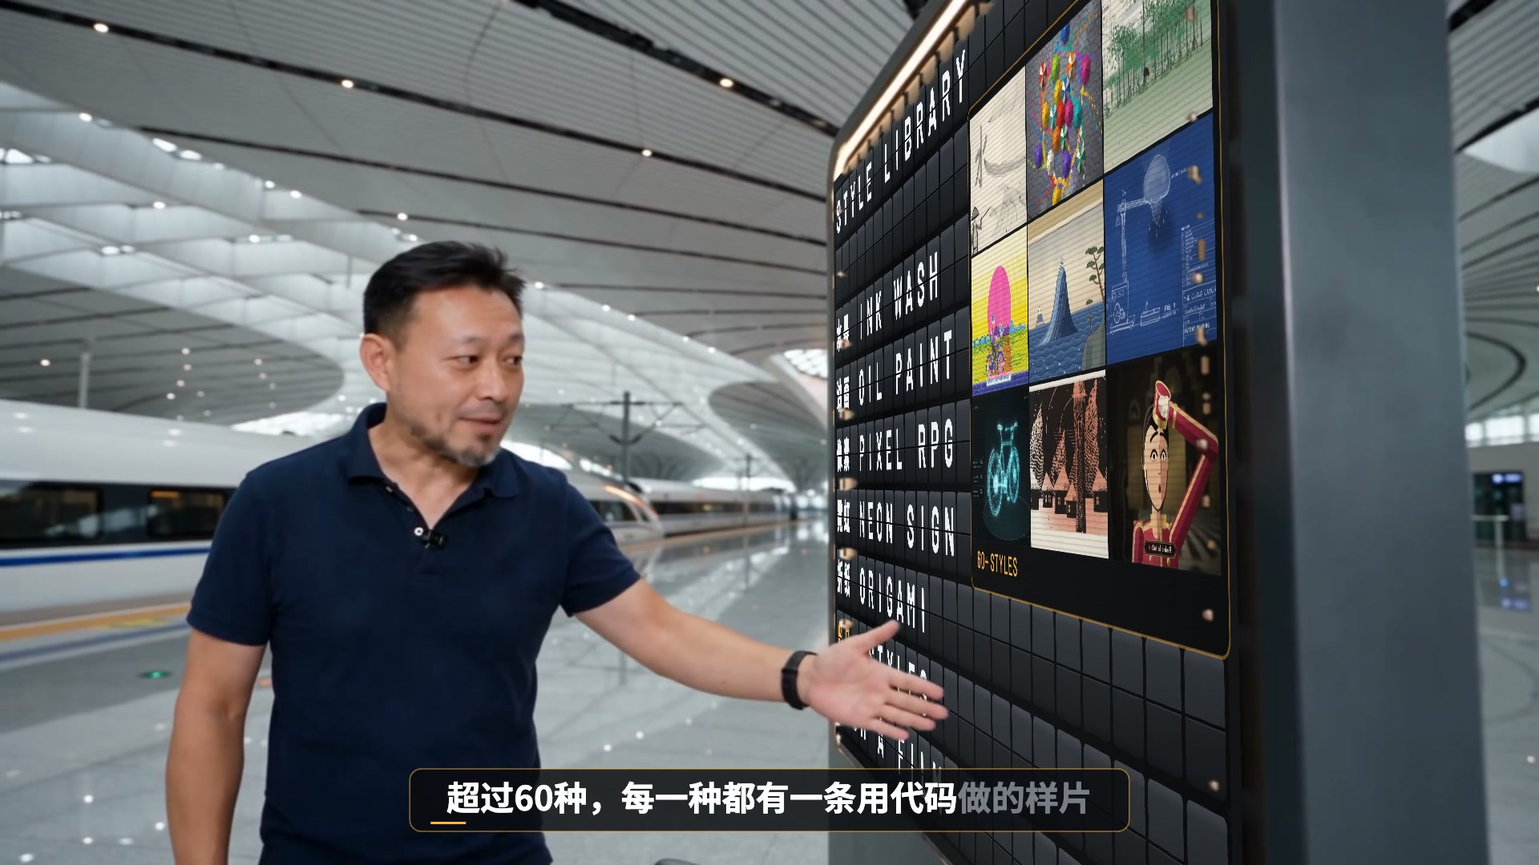
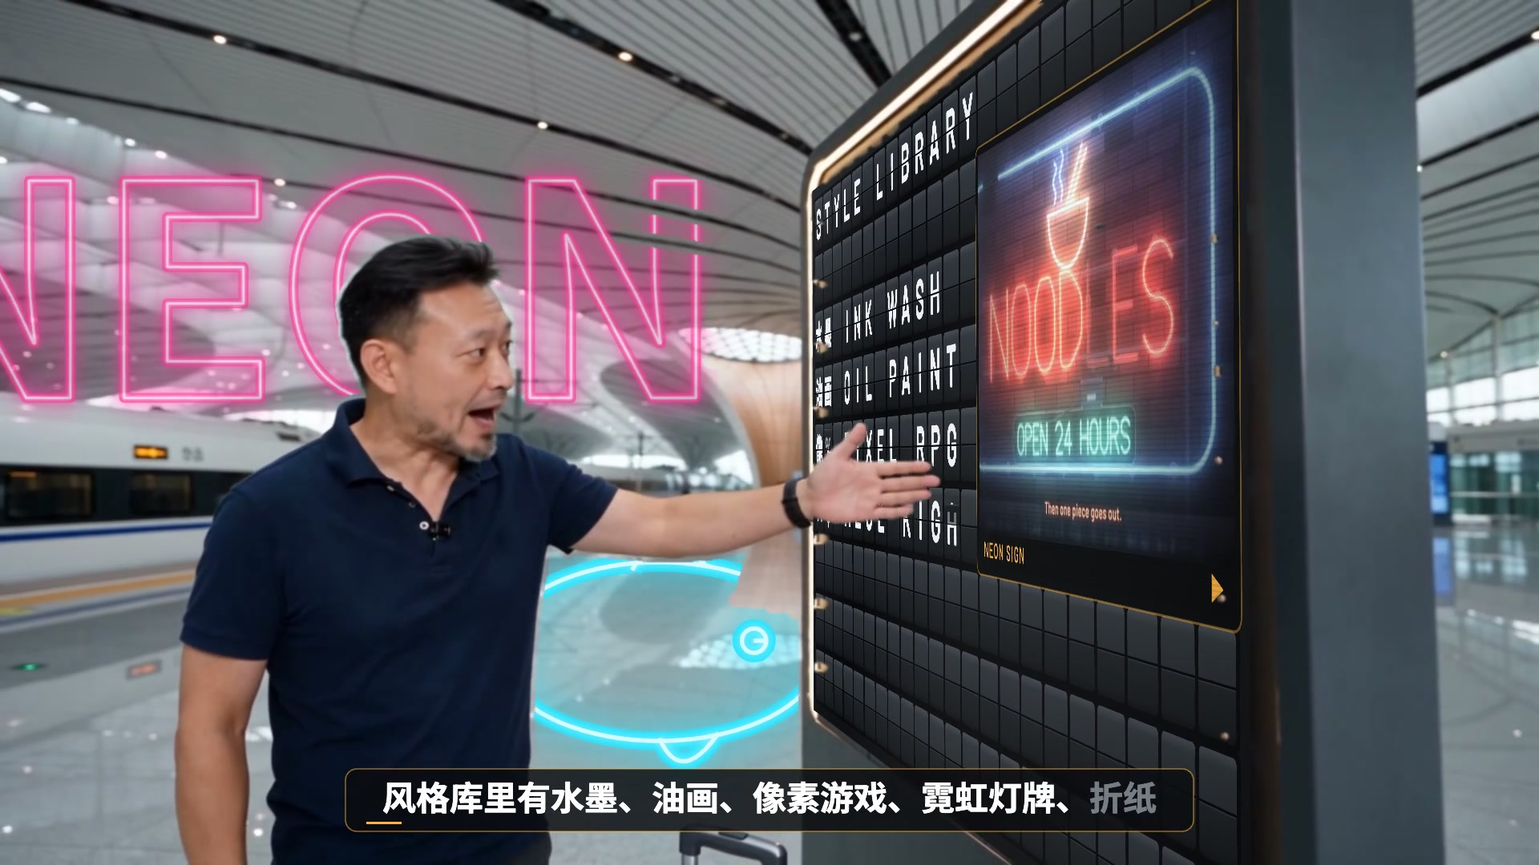
Split-flap intro, third pass: big style words and little characters behind the host, with a foreground matte

diff --git a/demos/talking-head/splitflap-intro/backdrop.js b/demos/talking-head/splitflap-intro/backdrop.js
@@ -1,0 +1,118 @@
+// 博主背后的风格大字和角色：每个风格一种画法（水墨、油画、像素、霓虹、折纸），在画面上随口播出现，画在博主和翻牌板的后面。
+const mk = (w, h) => { const c = document.createElement('canvas'); c.width = w; c.height = h; return c; };
+const h01 = n => { const s = Math.sin(n * 127.1 + 311.7) * 43758.5453; return s - Math.floor(s); };
+export const TW = 1800, TH = 560;
+const FONT = '"Noto Sans SC", Barlow, sans-serif';
+function fit(g, text, weight, maxW, maxH, family = FONT) { g.font = `${weight} 400px ${family}`; const w = g.measureText(text).width; return Math.min(400 * maxW / w, maxH); }
+function textMask(text, weight = 900, family = FONT) {
+  const c = mk(TW, TH), g = c.getContext('2d'); const size = fit(g, text, weight, TW - 120, 470, family);
+  g.font = `${weight} ${size}px ${family}`; g.textAlign = 'center'; g.textBaseline = 'middle'; g.fillStyle = '#fff'; g.fillText(text, TW / 2, TH / 2 + size * .04); return { c, size };
+}
+const KINDS = {
+  ink(text) {
+    const { c: m, size } = textMask(text), c = mk(TW, TH), g = c.getContext('2d');
+    g.drawImage(m, 0, 0); g.globalCompositeOperation = 'source-in'; g.fillStyle = '#15110e'; g.fillRect(0, 0, TW, TH); g.globalCompositeOperation = 'source-over';
+    g.globalAlpha = .28; g.filter = 'blur(7px)'; g.drawImage(m, 0, 3); g.filter = 'none'; g.globalAlpha = 1;
+    g.globalCompositeOperation = 'destination-out';
+    for (let i = 0; i < 320; i++) { const y = 30 + h01(i * 3.1) * (TH - 60), x = 40 + h01(i * 5.3) * (TW - 80), l = 50 + h01(i * 7.7) * 420, th = 1 + h01(i * 9.1) * 2.6; g.fillStyle = `rgba(0,0,0,${.35 + h01(i * 2.9) * .55})`; g.fillRect(x, y, l, th); }
+    g.globalCompositeOperation = 'source-over';
+    for (let i = 0; i < 70; i++) { const a = h01(i * 4.7) * 6.283, r = size * (.55 + h01(i * 6.1) * .55), x = TW / 2 + Math.cos(a) * r * 1.9, y = TH / 2 + Math.sin(a) * r * .8, rad = 1.5 + h01(i * 8.3) ** 3 * 9; g.fillStyle = 'rgba(21,17,14,.78)'; g.beginPath(); g.arc(x, y, rad, 0, 7); g.fill(); }
+    return c;
+  },
+  oil(text) {
+    const { c: m } = textMask(text), c = mk(TW, TH), g = c.getContext('2d'), pal = ['#e9b949', '#2b6cb0', '#d9482b', '#3a8f5c', '#f2e3c6', '#7a3b8f'];
+    g.fillStyle = '#d9482b'; g.fillRect(0, 0, TW, TH);
+    for (let i = 0; i < 1100; i++) { const x = h01(i * 1.9) * TW, y = h01(i * 3.3) * TH, w = 22 + h01(i * 5.1) * 30, l = 90 + h01(i * 7.3) * 170, a = -.62 + (h01(i * 9.7) - .5) * .5; g.save(); g.translate(x, y); g.rotate(a); g.fillStyle = pal[Math.floor(h01(i * 11.3) * pal.length)]; g.globalAlpha = .9; g.fillRect(-l / 2, -w / 2, l, w); g.fillStyle = 'rgba(255,255,255,.28)'; g.fillRect(-l / 2, -w / 2, l, 3); g.fillStyle = 'rgba(0,0,0,.2)'; g.fillRect(-l / 2, w / 2 - 3, l, 3); g.restore(); }
+    g.globalCompositeOperation = 'destination-in'; g.drawImage(m, 0, 0); g.globalCompositeOperation = 'destination-over'; g.filter = 'blur(2px)'; g.fillStyle = 'rgba(40,24,10,.55)'; g.drawImage(m, 5, 7); g.filter = 'none'; g.globalCompositeOperation = 'source-over';
+    return c;
+  },
+  pixel(text) {
+    const c = mk(TW, TH), g = c.getContext('2d'), sm = mk(1, 1); const hPx = 64, fs = 60; const sc = sm; sc.height = hPx + 8; const sg = sc.getContext('2d'); sg.font = `900 ${fs}px ${FONT}`; const wTxt = Math.ceil(sg.measureText(text).width) + 8; sc.width = wTxt;
+    const sg2 = sc.getContext('2d'); sg2.font = `900 ${fs}px ${FONT}`; sg2.textBaseline = 'middle'; sg2.textAlign = 'center'; sg2.fillStyle = '#fff'; sg2.fillText(text, wTxt / 2, (hPx + 8) / 2 + 2);
+    const px = sg2.getImageData(0, 0, wTxt, hPx + 8).data, k = Math.floor(Math.min((TW - 100) / wTxt, 470 / (hPx + 8))), ox = (TW - wTxt * k) / 2, oy = (TH - (hPx + 8) * k) / 2;
+    const on = (x, y) => x >= 0 && y >= 0 && x < wTxt && y < hPx + 8 && px[(y * wTxt + x) * 4 + 3] > 120;
+    for (let y = 0; y < hPx + 8; y++) for (let x = 0; x < wTxt; x++) {
+      if (on(x, y)) { const u = y / (hPx + 8); g.fillStyle = u < .5 ? '#ff4fa3' : '#ffd23f'; g.fillRect(ox + x * k, oy + y * k, k, k); if (!on(x, y - 1)) { g.fillStyle = 'rgba(255,255,255,.45)'; g.fillRect(ox + x * k, oy + y * k, k, Math.max(1, k * .25 | 0)); } }
+      else if (on(x - 1, y) || on(x + 1, y) || on(x, y - 1) || on(x, y + 1)) { g.fillStyle = '#1a0f2e'; g.fillRect(ox + x * k, oy + y * k, k, k); }
+    }
+    return c;
+  },
+  neon(text) {
+    const { c: m, size } = textMask(text, 900), c = mk(TW, TH), g = c.getContext('2d');
+    g.font = `900 ${size}px ${FONT}`; g.textAlign = 'center'; g.textBaseline = 'middle'; g.lineJoin = 'round';
+    const draw = (col, lw, blur) => { g.save(); g.shadowColor = col; g.shadowBlur = blur; g.strokeStyle = col; g.lineWidth = lw; g.strokeText(text, TW / 2, TH / 2 + size * .04); g.restore(); };
+    draw('#ff2d95', 16, 50); draw('#ff2d95', 10, 22); draw('#ffd6ec', 4, 6); g.fillStyle = 'rgba(255,45,149,.10)'; g.fillText(text, TW / 2, TH / 2 + size * .04);
+    return c;
+  },
+  origami(text) {
+    const { c: m } = textMask(text), c = mk(TW, TH), g = c.getContext('2d'), pal = ['#e4604a', '#f4e9d0', '#2d4a7a', '#e9a23b'];
+    const gx = 70, gy = 70; for (let y = -1; y < TH / gy + 1; y++) for (let x = -1; x < TW / gx + 1; x++) {
+      const p = (i, j) => [i * gx + (h01(i * 7.1 + j * 3.7) - .5) * 34, j * gy + (h01(i * 2.3 + j * 9.1) - .5) * 34], a = p(x, y), b = p(x + 1, y), cc = p(x, y + 1), d = p(x + 1, y + 1);
+      [[a, b, d], [a, d, cc]].forEach((t, q) => { const ci = Math.floor(h01(x * 5.3 + y * 8.9 + q) * 4), sh = (h01(x * 1.7 + y * 4.1 + q * 3) - .5) * .28; g.fillStyle = pal[ci]; g.beginPath(); g.moveTo(...t[0]); g.lineTo(...t[1]); g.lineTo(...t[2]); g.closePath(); g.fill(); g.fillStyle = sh > 0 ? `rgba(255,255,255,${sh})` : `rgba(0,0,0,${-sh})`; g.fill(); g.strokeStyle = 'rgba(255,255,255,.35)'; g.lineWidth = 1.6; g.stroke(); });
+    }
+    g.globalCompositeOperation = 'destination-in'; g.drawImage(m, 0, 0); g.globalCompositeOperation = 'destination-over'; g.filter = 'blur(3px)'; g.fillStyle = 'rgba(30,20,10,.5)'; g.drawImage(m, 4, 8); g.filter = 'none'; g.globalCompositeOperation = 'source-over';
+    return c;
+  },
+  outline(text) {
+    const { c: m, size } = textMask(text, 900), c = mk(TW, TH), g = c.getContext('2d'); g.font = `900 ${size}px ${FONT}`; g.textAlign = 'center'; g.textBaseline = 'middle'; g.lineJoin = 'round';
+    const y = TH / 2 + size * .04; g.strokeStyle = 'rgba(8,12,20,.55)'; g.lineWidth = 16; g.strokeText(text, TW / 2, y); g.strokeStyle = '#f4f8fc'; g.lineWidth = 6; g.strokeText(text, TW / 2, y); g.fillStyle = 'rgba(244,248,252,.12)'; g.fillText(text, TW / 2, y);
+    return c;
+  },
+  amber(text) {
+    const { c: m, size } = textMask(text, 900, 'Barlow, "Noto Sans SC", sans-serif'), c = mk(TW, TH), g = c.getContext('2d');
+    g.drawImage(m, 0, 0); g.globalCompositeOperation = 'source-in'; const gr = g.createLinearGradient(0, 0, 0, TH); gr.addColorStop(0, '#ffc95c'); gr.addColorStop(1, '#f08c12'); g.fillStyle = gr; g.fillRect(0, 0, TW, TH); g.globalCompositeOperation = 'source-over';
+    g.fillStyle = 'rgba(10,8,4,.8)'; g.fillRect(0, TH / 2 - 4, TW, 8); g.globalCompositeOperation = 'destination-over'; g.filter = 'blur(2px)'; g.fillStyle = 'rgba(8,10,14,.6)'; g.drawImage(m, 6, 9); g.filter = 'none'; g.globalCompositeOperation = 'source-over';
+    return c;
+  },
+};
+const CACHE = new Map();
+export function styled(kind, text) {
+  const k = kind + '|' + text; let r = CACHE.get(k);
+  if (!r) {
+    const c = KINDS[kind](text), s = mk(450, 140), sg = s.getContext('2d', { willReadFrequently: true }); sg.drawImage(c, 0, 0, 450, 140); const d = sg.getImageData(0, 0, 450, 140).data; let x0 = 450, y0 = 140, x1 = 0, y1 = 0;
+    for (let y = 0; y < 140; y++) for (let x = 0; x < 450; x++) if (d[(y * 450 + x) * 4 + 3] > 40) { if (x < x0) x0 = x; if (x > x1) x1 = x; if (y < y0) y0 = y; if (y > y1) y1 = y; }
+    r = { c, bb: { x0: x0 * 4, y0: y0 * 4, x1: (x1 + 1) * 4, y1: (y1 + 1) * 4 } }; CACHE.set(k, r);
+  }
+  return r;
+}
+
+// ───────── 角色（单位坐标，s 是大小）─────────
+export const CREATURES = {
+  inkCrane(g, t, x, y, s) {
+    g.save(); g.translate(x, y); g.scale(s, s); g.lineCap = 'round'; g.lineJoin = 'round'; const fl = Math.sin(t * 2.2) * .12;
+    const ink = a => `rgba(18,14,11,${a})`;
+    g.fillStyle = ink(.9); g.beginPath(); g.ellipse(0, 0, .5, .26, -.18, 0, 7); g.fill();
+    g.strokeStyle = ink(.9); g.lineWidth = .06; g.beginPath(); g.moveTo(.38, -.08); g.bezierCurveTo(.62, -.2, .5, -.5, .62, -.78); g.stroke();
+    g.lineWidth = .028; g.beginPath(); g.moveTo(.62, -.78); g.lineTo(.84, -.74); g.stroke(); g.fillStyle = '#d4281c'; g.beginPath(); g.arc(.62, -.82, .035, 0, 7); g.fill();
+    g.strokeStyle = ink(.85); g.lineWidth = .016; g.beginPath(); g.moveTo(.04, .22); g.lineTo(.0, .78); g.moveTo(.16, .2); g.lineTo(.2, .78); g.stroke();
+    for (const [k, w] of [[1, .07], [.6, .045]]) { g.strokeStyle = ink(.8 * k); g.lineWidth = w; g.beginPath(); g.moveTo(-.1, -.16); g.bezierCurveTo(.1, -.7 - fl, .5, -.95 - fl, .9, -.6 - fl * .5); g.stroke(); g.beginPath(); g.moveTo(-.4, -.05); g.lineTo(-.95, .1); g.stroke(); }
+    g.restore();
+  },
+  pixelCat(g, t, x, y, s) {
+    const rows = ['................', '..KK........KK..', '.KOOK......KOOK.', '.KOOOKKKKKKOOOK.', '.KOOOOOOOOOOOOK.', '.KOOGKOOOOKGOOK.', '.KOOOOOPPOOOOOK.', '.KOOOOOKKOOOOOK.', '..KOOOOOOOOOOK..', '..KOOOOOOOOOOKKK', '.KOOOOOOOOOOOKOK', '.KOOOOOOOOOOOOOK', '.KOWOKOOOOKOWOK.', '..KKK.KKKK.KKK..'];
+    const pal = { K: '#1a1411', O: '#f08a3c', G: '#7ed957', P: '#ff8fb1', W: '#fff3e0' }, k = s / 16 * 1.7, bob = Math.round(Math.sin(t * 4) * .5) * k, blink = Math.floor(t * 1.4) % 5 === 0 && (t * 1.4 % 1) < .12;
+    g.save(); g.translate(x - 8 * k, y - 14 * k + bob);
+    rows.forEach((r, j) => [...r].forEach((ch, i) => { if (ch === '.') return; let c = pal[ch]; if (blink && ch === 'G') c = pal.O; g.fillStyle = c; g.fillRect(i * k, j * k, k + .6, k + .6); }));
+    g.fillStyle = 'rgba(0,0,0,.18)'; g.fillRect(1 * k, 14 * k, 14 * k, k * .6); g.restore();
+  },
+  neonFish(g, t, x, y, s) {
+    g.save(); g.translate(x, y); g.scale(s, s); g.lineJoin = 'round'; const wag = Math.sin(t * 5) * .12, fl = .85 + .15 * Math.sin(t * 17 + 3) * (Math.sin(t * 3.1) > .7 ? 1 : .2);
+    const path = () => { g.beginPath(); g.ellipse(0, 0, .6, .33, 0, 0, 7); g.moveTo(-.55, 0); g.lineTo(-.98, -.3 + wag); g.lineTo(-.98, .3 + wag); g.closePath(); g.moveTo(.35, -.04); g.arc(.35, -.04, .045, 0, 7); g.moveTo(-.1, -.3); g.quadraticCurveTo(0, -.5, .18, -.31); g.moveTo(.0, .32); g.quadraticCurveTo(.08, .5, .22, .3); };
+    for (const [col, lw, bl] of [['#19e3ff', .07, 40], ['#19e3ff', .04, 14], ['#e8fcff', .016, 4]]) { g.save(); g.globalAlpha = fl; g.shadowColor = col; g.shadowBlur = bl * s / 100; g.strokeStyle = col; g.lineWidth = lw; path(); g.stroke(); g.restore(); }
+    g.restore();
+  },
+  origamiCrane(g, t, x, y, s) {
+    g.save(); g.translate(x, y); g.scale(s, s); const fl = Math.sin(t * 2) * .22, tri = (a, b, c, col, sh = 0) => { g.fillStyle = col; g.beginPath(); g.moveTo(...a); g.lineTo(...b); g.lineTo(...c); g.closePath(); g.fill(); if (sh) { g.fillStyle = sh > 0 ? `rgba(255,255,255,${sh})` : `rgba(0,0,0,${-sh})`; g.fill(); } g.strokeStyle = 'rgba(255,255,255,.55)'; g.lineWidth = .012; g.stroke(); };
+    tri([-.1, -.25], [.2, -.95 - fl], [.58, -.12], '#7d93b8'); tri([-.5, 0], [0, -.3], [0, .3], '#e4604a', -.08); tri([.5, 0], [0, -.3], [0, .3], '#f4e9d0', .0);
+    tri([.42, -.1], [.95, -.62], [.55, .05], '#e9a23b', .06); tri([.95, -.62], [1.15, -.55], [.99, -.5], '#2d4a7a'); tri([-.5, 0], [-1.08, -.26], [-.42, -.08], '#e4604a', .1);
+    tri([-.05, -.28], [.3, -.92 + fl], [.52, -.08], '#f4e9d0', .04); g.restore();
+  },
+  clayChick(g, t, x, y, s) {
+    g.save(); g.translate(x, y); g.scale(s, s); const q = Math.sin(t * 3.2) * .04, sx = 1 + q, sy = 1 - q;
+    g.fillStyle = 'rgba(0,0,0,.18)'; g.beginPath(); g.ellipse(0, .55, .55, .09, 0, 0, 7); g.fill(); g.save(); g.translate(0, .5); g.scale(sx, sy); g.translate(0, -.5);
+    const gr = g.createRadialGradient(-.15, -.2, .05, 0, 0, .7); gr.addColorStop(0, '#ffe27a'); gr.addColorStop(1, '#e4a82a'); g.fillStyle = gr; g.beginPath(); g.ellipse(0, .1, .52, .5, 0, 0, 7); g.fill();
+    g.fillStyle = 'rgba(255,255,255,.9)'; g.beginPath(); g.arc(-.18, -.02, .11, 0, 7); g.arc(.18, -.02, .11, 0, 7); g.fill(); g.fillStyle = '#2b2420'; g.beginPath(); g.arc(-.17, -.0, .05, 0, 7); g.arc(.19, -.0, .05, 0, 7); g.fill();
+    g.fillStyle = '#f08a3c'; g.beginPath(); g.moveTo(-.07, .12); g.lineTo(.07, .12); g.lineTo(0, .24); g.closePath(); g.fill(); g.fillStyle = 'rgba(255,130,120,.5)'; g.beginPath(); g.ellipse(-.3, .12, .07, .045, 0, 0, 7); g.ellipse(.3, .12, .07, .045, 0, 0, 7); g.fill();
+    g.restore(); g.restore();
+  },
+};

diff --git a/demos/talking-head/splitflap-intro/main.js b/demos/talking-head/splitflap-intro/main.js
@@ -5,6 +5,7 @@
 import { loadHost, hostFrame } from '/tools/talk/host.js';
 import { cuesFromWords, cueWords } from '/tools/talk/layouts.js';
 import { Cell, write } from './flap.js';
+import { styled, CREATURES, TW, TH } from './backdrop.js';
 
 const W = 1920, H = 1080, cv = document.getElementById('c'), ctx = cv.getContext('2d');
 const host = await loadHost('src');
@@ -291,6 +292,41 @@ function cardWhiteMask(P) {                                                     
   cmg.putImageData(cimg, 0, 0); return cmk;
 }
 
+// ───────── 前景遮罩：博主 + 翻牌板（含侧面和底座），文字和角色画在它们后面 ─────────
+const fgC = document.createElement('canvas'); fgC.width = MW; fgC.height = MH; const fgG = fgC.getContext('2d'), fgImg = fgG.createImageData(MW, MH);
+const qC = document.createElement('canvas'); qC.width = MW; qC.height = MH; const qG = qC.getContext('2d', { willReadFrequently: true });
+const seen = new Uint8Array(MW * MH), cand = new Uint8Array(MW * MH), stk = new Int32Array(MW * MH), dist = new Uint16Array(MW * MH);
+function fgMatte(k) {
+  const d = lastPix, n = MW * MH; let qh = 0, qt = 0; seen.fill(0); dist.fill(0);
+  for (let i = 0, p = 0; i < n; i++, p += 4) {
+    const r = d[p], g = d[p + 1], b = d[p + 2], l = .3 * r + .59 * g + .11 * b, mx = Math.max(r, g, b), mn = Math.min(r, g, b);
+    const navy = b > r + 20 && b > g + 5 && l < 110 && l > 8, skin = r > g && g > b && r - b > 14 && l > 38 && l < 242 && r / (g + 1) < 1.62, dark = l < 85 && mx - mn < 48;
+    cand[i] = navy || skin || dark ? 1 : 0; if (navy) { seen[i] = 1; stk[qt++] = i; }
+  }
+  // 翻牌板的四边形也当种子
+  const Hf = TR.H[Math.min(k, TR.H.length - 1)].map(Number), Ht = mul3(Hf, Hq);
+  qG.setTransform(1, 0, 0, 1, 0, 0); qG.clearRect(0, 0, MW, MH); qG.fillStyle = '#fff'; qG.beginPath();
+  [[0, 0], [BW, 0], [BW, BH], [0, BH]].forEach(([x, y], q) => { const [px, py] = apply(Ht, x, y); q ? qG.lineTo(px * SX / 2, py * SX / 2) : qG.moveTo(px * SX / 2, py * SX / 2); }); qG.closePath(); qG.fill();
+  const qd = qG.getImageData(0, 0, MW, MH).data;
+  for (let i = 0; i < n; i++) if (qd[i * 4 + 3] > 128) { if (!seen[i]) { seen[i] = 1; stk[qt++] = i; } cand[i] = 1; }
+  // 广度优先，最多往外长 170 个像素：脸、脖子、头发、手臂都在衣服附近，远处的铜色立柱和天花板暗线长不到
+  const CAP = 170;
+  while (qh < qt) {
+    const i = stk[qh++], x = i % MW, dd = dist[i]; if (dd >= CAP) continue;
+    if (x > 0 && cand[i - 1] && !seen[i - 1]) { seen[i - 1] = 1; dist[i - 1] = dd + 1; stk[qt++] = i - 1; }
+    if (x < MW - 1 && cand[i + 1] && !seen[i + 1]) { seen[i + 1] = 1; dist[i + 1] = dd + 1; stk[qt++] = i + 1; }
+    if (i >= MW && cand[i - MW] && !seen[i - MW]) { seen[i - MW] = 1; dist[i - MW] = dd + 1; stk[qt++] = i - MW; }
+    if (i < n - MW && cand[i + MW] && !seen[i + MW]) { seen[i + MW] = 1; dist[i + MW] = dd + 1; stk[qt++] = i + MW; }
+  }
+  // 填洞：从画面边缘能走到的“非前景”是背景，其余的洞（卡片、高光）算前景
+  const out = new Uint8Array(n); let sp = 0; const st2 = new Int32Array(n);
+  const pushBg = i => { if (!seen[i] && !out[i]) { out[i] = 1; st2[sp++] = i; } };
+  for (let x = 0; x < MW; x++) { pushBg(x); pushBg((MH - 1) * MW + x); } for (let y = 0; y < MH; y++) { pushBg(y * MW); pushBg(y * MW + MW - 1); }
+  while (sp) { const i = st2[--sp], x = i % MW; if (x > 0) pushBg(i - 1); if (x < MW - 1) pushBg(i + 1); if (i >= MW) pushBg(i - MW); if (i < n - MW) pushBg(i + MW); }
+  const o = fgImg.data; for (let i = 0, p = 0; i < n; i++, p += 4) { o[p] = o[p + 1] = o[p + 2] = 0; o[p + 3] = out[i] ? 0 : 255; }
+  fgG.putImageData(fgImg, 0, 0); return fgC;
+}
+
 // ───────── 字幕 ─────────
 const cues = cuesFromWords(words, { maxChars: 26, softChars: 12, gap: .45, balance: true }), CW2 = cueWords(cues, words);
 function captionsLayer(t) {
@@ -314,17 +350,62 @@ for (let tt = 14.25; tt < T.topic; tt += .12) EV.push({ t: +tt.toFixed(3), type:
 EV.sort((x, y) => x.t - y.t);
 window.EV = EV;
 
+// ───────── 博主背后的风格大字和角色 ─────────
+const SCN = [
+  { t0: 1.6, t1: T.lib - .1, kind: 'outline', text: 'CLAUDE-VIDEO' },
+  { t0: T.ink - .15, t1: T.oil - .1, kind: 'ink', text: '水墨', cr: 'inkCrane' },
+  { t0: T.oil - .15, t1: T.pixel - .1, kind: 'oil', text: '油画' },
+  { t0: T.pixel - .15, t1: T.neon - .1, kind: 'pixel', text: 'PIXEL', cr: 'pixelCat' },
+  { t0: T.neon - .15, t1: T.ori - .1, kind: 'neon', text: 'NEON', cr: 'neonFish' },
+  { t0: T.ori - .15, t1: T.sixty - .3, kind: 'origami', text: '折纸', cr: 'origamiCrane' },
+  { t0: T.sixty - .3, t1: T.pick - .35, kind: 'amber', text: '60+', parade: true },
+  { t0: T.pick - .3, t1: T.topic - .1, kind: 'outline', text: 'PICK A STYLE' },
+  { t0: T.topic - .1, t1: T.make - .1, kind: 'outline', text: '+ YOUR TOPIC' },
+  { t0: T.make - .1, t1: T.talk - .1, kind: 'neon', text: 'A FILM' },
+  { t0: T.talk - .1, t1: T.landscape - .15, kind: 'outline', text: 'TALKING HEAD' },
+  { t0: T.landscape - .15, t1: T.gallery - .3, kind: 'outline', text: '16:9 · 9:16' },
+  { t0: T.gallery - .3, t1: T.prompt - .2, kind: 'origami', text: 'GALLERY', parade: true },
+  { t0: T.prompt - .2, t1: T.ask - .6, kind: 'pixel', text: 'PROMPTS' },
+  { t0: T.ask - .6, t1: DUR + 1, kind: 'neon', text: 'WHICH STYLE?', parade: true },
+];
+const PARADE = ['inkCrane', 'pixelCat', 'neonFish', 'origamiCrane', 'clayChick'];
+const bgC = document.createElement('canvas'); bgC.width = W; bgC.height = H; const bgG = bgC.getContext('2d');
+const camOf = k => { const Ht = mul3(TR.H[Math.min(k, TR.H.length - 1)].map(Number), Hq), [x, y] = apply(Ht, BW / 2, BH / 2), [x1, y1] = apply(Ht, 0, 0), [x2, y2] = apply(Ht, BW, BH); return { x: x * SX, y: y * SX, L: Math.hypot(x2 - x1, y2 - y1) * SX }; };
+const CAM0 = camOf(TR.ref);
+const easeOut = u => 1 - (1 - u) ** 3;
+function drawBackdrop(k, t) {
+  bgG.setTransform(1, 0, 0, 1, 0, 0); bgG.globalCompositeOperation = 'source-over'; bgG.clearRect(0, 0, W, H);
+  const c = camOf(k), dx = (c.x - CAM0.x) * .5, dy = (c.y - CAM0.y) * .3, sc = 1 + .35 * (c.L / CAM0.L - 1);
+  bgG.setTransform(sc, 0, 0, sc, W / 2 * (1 - sc) + dx, H / 2 * (1 - sc) + dy);
+  for (const sn of SCN) {
+    if (t < sn.t0 || t > sn.t1) continue; const p = easeOut(seg(t, sn.t0, sn.t0 + .38)), out = 1 - ss(seg(t, sn.t1 - .3, sn.t1)), a = p * out; if (a <= 0) continue;
+    const st = styled(sn.kind, sn.text), z = lerp(.88, 1, p) * (1 + .035 * seg(t, sn.t0, sn.t1)), fl = sn.kind === 'neon' ? (.88 + .12 * Math.sin(t * 23) * (Math.sin(t * 3.3) > .6 ? 1 : .15)) : 1;
+    const bw = st.bb.x1 - st.bb.x0, bh = st.bb.y1 - st.bb.y0, fitS = Math.min(860 / bw, 380 / bh);                     // 画在“博主左边、翻牌板左边”那块看得见的地方
+    bgG.save(); bgG.globalAlpha = Math.min(1, a * .96) * fl; bgG.translate(W * .245, H * .34); bgG.scale(z * fitS, z * fitS); bgG.drawImage(st.c, -(st.bb.x0 + st.bb.x1) / 2, -(st.bb.y0 + st.bb.y1) / 2); bgG.restore();
+    if (sn.parade) { PARADE.forEach((nm, i) => { const q = easeOut(seg(t, sn.t0 + .25 + i * .14, sn.t0 + .6 + i * .14)); if (q > 0) { bgG.save(); bgG.globalAlpha = a * q; CREATURES[nm](bgG, t + i, W * (.07 + i * .105), H * .76 - (1 - q) * 40, 175); bgG.restore(); } }); }
+    else if (sn.cr) { const q = easeOut(seg(t, sn.t0 + .15, sn.t0 + .6)); bgG.save(); bgG.globalAlpha = a * q; CREATURES[sn.cr](bgG, t, W * .445, H * .70 - (1 - q) * 50, 290); bgG.restore(); }
+  }
+  // 博主和翻牌板在前面：用前景遮罩（先膨胀几个像素）把背景层挖掉
+  bgG.setTransform(1, 0, 0, 1, 0, 0); bgG.globalCompositeOperation = 'destination-out'; const m = fgMatte(k);
+  for (const [ox, oy] of [[0, 0], [6, 0], [-6, 0], [0, 6], [0, -6], [4, 4], [-4, 4], [4, -4], [-4, -4]]) bgG.drawImage(m, ox, oy, W, H);
+  bgG.globalCompositeOperation = 'source-over';
+}
+
+for (const sn of SCN) EV.push({ t: +sn.t0.toFixed(3), type: 'bgpop' }); EV.sort((x, y) => x.t - y.t);
+
 // ───────── 渲染 ─────────
 window.DUR = DUR;
 window.render = (t0) => {
   const t = POSTER ? AT : t0, time = POSTER ? AT : Math.min(t0, host.duration - .05), k = Math.min(host.frames.length - 1, Math.floor(time * host.fps + 1e-4)), im = hostFrame(host, time);
   ctx.setTransform(1, 0, 0, 1, 0, 0); ctx.globalAlpha = 1; ctx.globalCompositeOperation = 'source-over';
   ctx.drawImage(im, 0, 0, W, H);
-  drawBoardTexture(t); drawBoard(k);
   hostMatte(im);
+  if (!QS.has('nobg')) { drawBackdrop(k, t); ctx.drawImage(bgC, 0, 0); }
+  drawBoardTexture(t); drawBoard(k);
   if (!NOMATTE) { og.globalCompositeOperation = 'destination-out'; og.imageSmoothingEnabled = true; og.filter = 'blur(1.2px)'; og.drawImage(mk2, 0, 0, W, H); og.filter = 'none'; og.globalCompositeOperation = 'source-over'; }
   ctx.drawImage(ov, 0, 0);
   drawCard(k, t, im);
+  if (QS.has('fg')) { const m = fgMatte(k); lg.setTransform(1, 0, 0, 1, 0, 0); lg.globalCompositeOperation = 'source-over'; lg.clearRect(0, 0, W, H); lg.fillStyle = 'rgba(255,0,200,.55)'; lg.fillRect(0, 0, W, H); lg.globalCompositeOperation = 'destination-out'; lg.drawImage(m, 0, 0, W, H); lg.globalCompositeOperation = 'source-over'; ctx.drawImage(lay, 0, 0); }
   if (!POSTER) captionsLayer(t);
 };
 window.TEXTS = () => [];

diff --git a/demos/talking-head/splitflap-intro/mix.py b/demos/talking-head/splitflap-intro/mix.py
@@ -2,7 +2,7 @@
 再加大厅的空气底噪、很轻的和弦垫和脉冲。翻牌的位置（左右声像）来自格子所在的列。"""
 import os, sys, json
 import numpy as np, soundfile as sf
-HERE = os.path.dirname(os.path.abspath(__file__)); LIB = os.environ.get('LIB') or os.path.abspath(os.path.join(HERE, '..', '..', '..'))
+HERE = os.path.dirname(os.path.abspath(__file__)); LIB = os.environ.get('LIB') or os.path.abspath(os.path.join(HERE, '..', '..'))
 sys.path.insert(0, LIB); sys.path.insert(0, os.path.join(LIB, 'tools', 'talk'))
 from mix_helpers import load_voice, voice_env, duck, finish
 from core.audio.sfx import SR, add, lp, hp, bp, noise, t_
@@ -31,10 +31,13 @@ for e in EV:
 def thunk(d=.16):
     t = t_(d); return (np.sin(2 * np.pi * (140 - 60 * np.minimum(1, t / .08)) * t) * np.exp(-t / .05) + lp(noise(d), 900) * np.exp(-t / .02) * .5 + bp(noise(d), 1500, 5000) * np.exp(-t / .01) * .4)
 def tick(d=.02): t = t_(d); return hp(noise(d), 3500) * np.exp(-t / .003)
+def whoosh_soft(d=.45):
+    t = t_(d); return bp(noise(d), 500, 3500) * np.sin(np.linspace(0, np.pi, len(t))) ** 2 * .6
 for e in ALL:
     if e['type'] == 'pflip': add(foley, thunk(), e['t'] + .17, .34, .35)
     elif e['type'] == 'tile': add(foley, clack(.045), e['t'], .22, float(rng.uniform(.2, .6)))
     elif e['type'] == 'tick': add(foley, tick(), e['t'], .16, -.1)
+    elif e['type'] == 'bgpop': add(foley, whoosh_soft(), e['t'] - .05, .20, 0)
 print('flaps', total, 'bins', len(EV))
 # 空气底噪（大厅）+ 很远的列车低频
 w = np.cumsum(noise(DUR)); w -= np.linspace(w[0], w[-1], len(w)); w = hp(w, 30); w = w / np.abs(w).max()

diff --git a/TALKING-HEAD.md b/TALKING-HEAD.md
@@ -103,6 +103,8 @@ When the generated world holds a board, a screen or a sign that should show **yo
 
 6. **More than text.** The replacement can hold pictures and clips: `splitflap-intro` puts a preview window in the board's plane that is itself a giant flap (clips and stills of the library's styles, sampled to 12 fps into `samples/`), so the board shows samples while the host names them. A prop in the host's hand can be replaced too: `track_card.py` finds a white card by colour (light, smooth, slightly blue; the ceiling is brighter or textured) and the page paints a ticket on it only where the pixel is card-white, so fingers stay in front. In `splitflap-intro` it found the card for about 12 of the 14 seconds it is held; for the other two (the host lowers it towards the board) the card stays white.
 
+7. **A backdrop behind the host.** To fill an empty world, draw a layer of big words and small characters in different styles (`backdrop.js`: ink, oil, pixel, neon, origami type; a crane, a cat, a fish) and cut the foreground out of it. The foreground matte grows from the navy shirt and the board quad through skin, navy and dark pixels (depth-capped flood fill, holes filled), is dilated a few pixels, and is removed from the layer, so the host and the board stay in front. Fit each word to the free area beside the host; in close-ups some words are still partly hidden.
+
 Known limits: the footage is upscaled if it is 720p; the matte is colour-based; the tracker assumes a rigid, textured surface (a plain monitor with no frame needs corner markers).
 
 ## 4. Prepare the footage
